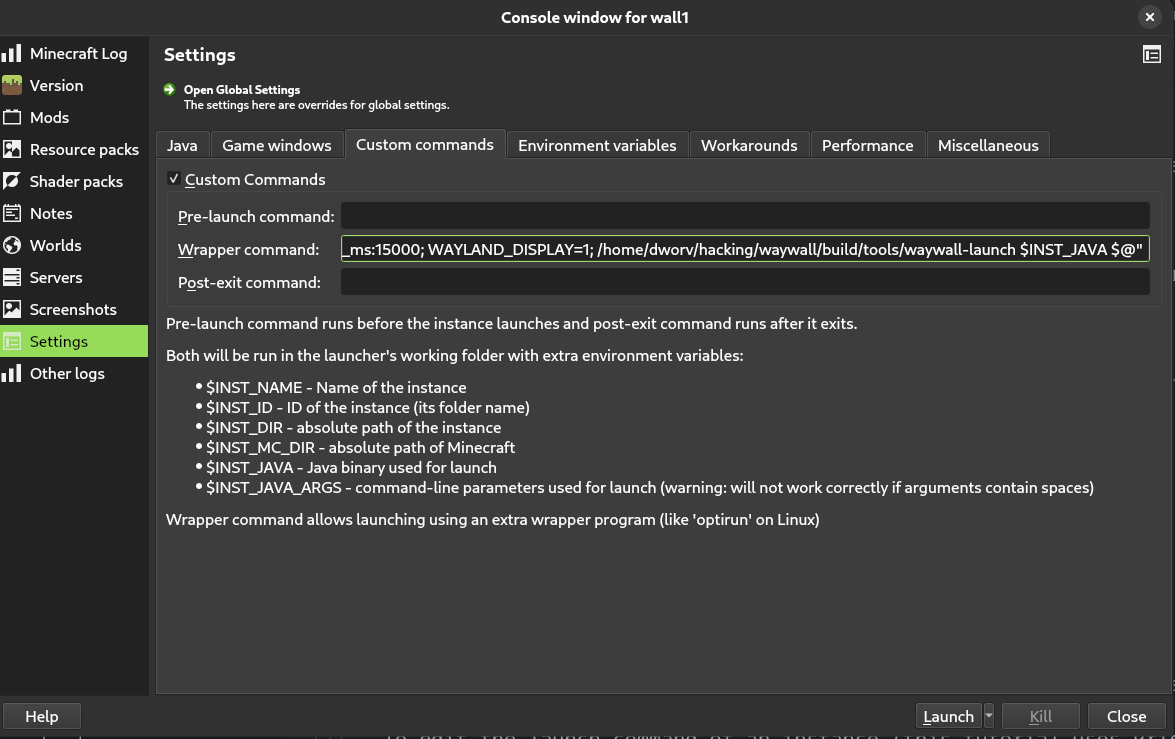
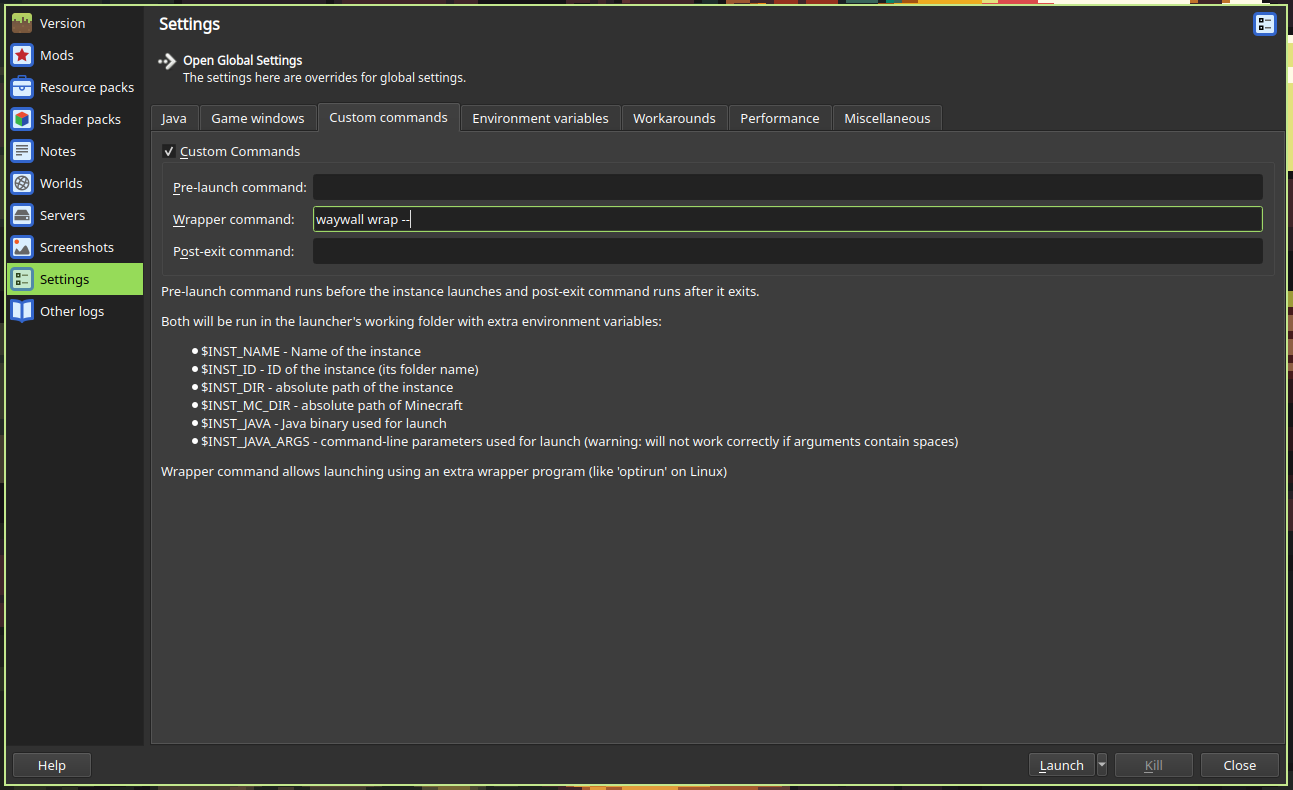
doc: update setup guide to remove wall

Changed region(s): [[0.0, 0.0, 1.0, 1.0], [0.0, 0.6847, 0.0306, 0.8092]]

diff --git a/doc/SETUP.md b/doc/SETUP.md
@@ -1,6 +1,6 @@
 # Setting up waywall
 
-> [!WARNING]
+> [!NOTE]
 > waywall is still under active development. Many features are missing or may
 > not work as expected.
 
@@ -37,15 +37,6 @@ local waywall = require("waywall")
 local helpers = require("waywall.helpers")
 
 local config = {
-    general = {
-    },
-    cpu = {
-        weight_idle = 1,
-        weight_low = 2,
-        weight_high = 20,
-        weight_active = 100,
-        preview_threshold = 30,
-    },
     input = {
         remaps = {
         },
@@ -62,57 +53,16 @@ local config = {
     },
 }
 
-local wall = helpers.wall({
-    width = 2,
-    height = 3,
-    stretch_width = 640,
-    stretch_height = 216,
-
-    grace_period = 150,
-    bypass = true,
-})
-
-config.actions = {
-    ["Ctrl-Shift-D"] = function()
-        if waywall.active_instance() then
-            wall.reset_ingame()
-        else
-            wall.reset_all()
-        end
-    end,
-    ["LMB"] = wall.reset,
-    ["Shift-LMB"] = wall.play,
-    ["Ctrl-LMB"] = wall.toggle_lock,
-    ["Ctrl-Shift-LMB"] = wall.focus_reset,
-}
+config.actions = {}
 
 return config
 ```
 
 For more information in configuring waywall, visit [the configuration guide](CONFIGURATION.md).
 
-## Preparing CPUs
+## Instance setup
 
-Waywall uses a Linux feature called `cgroups` to make sure your system is prioritizing your active Minecraft instance and deprioritizing your other ones to ensure the best possible performance. Right now, we need root access to create these `cgroups`. To prepare them, run this command:
-
-```sudo waywall cpu```
-
-This doesn't need to be run every time you want to run waywall, only once after each time you restart your computer.
-
-If you've followed all of these steps correctly, running `waywall` should work properly! Try it, if it doesn't work you've done something wrong and aren't ready for the next step.
-
-It should appear as a window with the coloured background you chose in your `init.lua` file with the `config.theme` setting.
-
-## Preparing your instances.
-
-There are a few things you need to change/check about each of your Minecraft instances for them to work properly.
-
-### Mods
-
-(This is not an exhaustive list of mods recommended for speedrunning, just what you need to waywall to work properly)
-
-- Atum 1.2.2 or higher
-- State Output 1.1.6 or higher
+Before you can use an instance of Minecraft with waywall, it will require some additional setup. This guide will assume that you are using [Prism Launcher](https://prismlauncher.org), a fork of [MultiMC](https://multimc.org/) with additional features and improvements.
 
 ### GLFW
 
@@ -152,31 +102,18 @@ Now, you can use this modified and up-to-date `glfw`. Configure the path to your
 
 ![Screenshot of where to put the path to your glfw build](assets/glfw-local-screenshot.png)
 
-### Launch command
+### Launching with waywall
 
-Waywall needs you to launch your instances in a very special way so that it can pick them up.
+By default, your Minecraft instances will launch under your normal compositor. In order for a Minecraft instance to run under waywall, you must change the command used to launch it.
 
-To edit the launch command of an instance (this tutorial uses Prism Launcher but this should be possible in other launchers too), go to this menu in your instance's settings:
+To do this, you will need to go to this menu in your instance's settings:
 
 ![Wrapper command](assets/wrapper-command-screenshot.png)
 
-and insert this command into the `Wrapper command` box.
+Then, insert the following command into the `Wrapper command` box:
 
 ```sh
-sh -c "export LD_PRELOAD='/usr/lib/libjemalloc.so'; export MALLOC_CONF=background_thread:true,narenas:2,dirty_decay_ms:15000,muzzy_decay_ms:15000; waywall exec -- $INST_JAVA $@"
+waywall wrap --
 ```
 
-Now, when you launch this instance (it will only work while waywall is running), it will appear inside the waywall window!
-
-# Running waywall after setup
-
-Now that you've setup waywall, here's now to run it (this assumes you have restarted your computer since setting up waywall, but these instructions should work right away too).
-
-Open a terminal and run these commands
-
-```sh
-sudo waywall cpu
-waywall run
-```
-
-Then, launch all of the instances you prepared. You should be good to go!
+After this, your Minecraft instance should launch inside of waywall.
